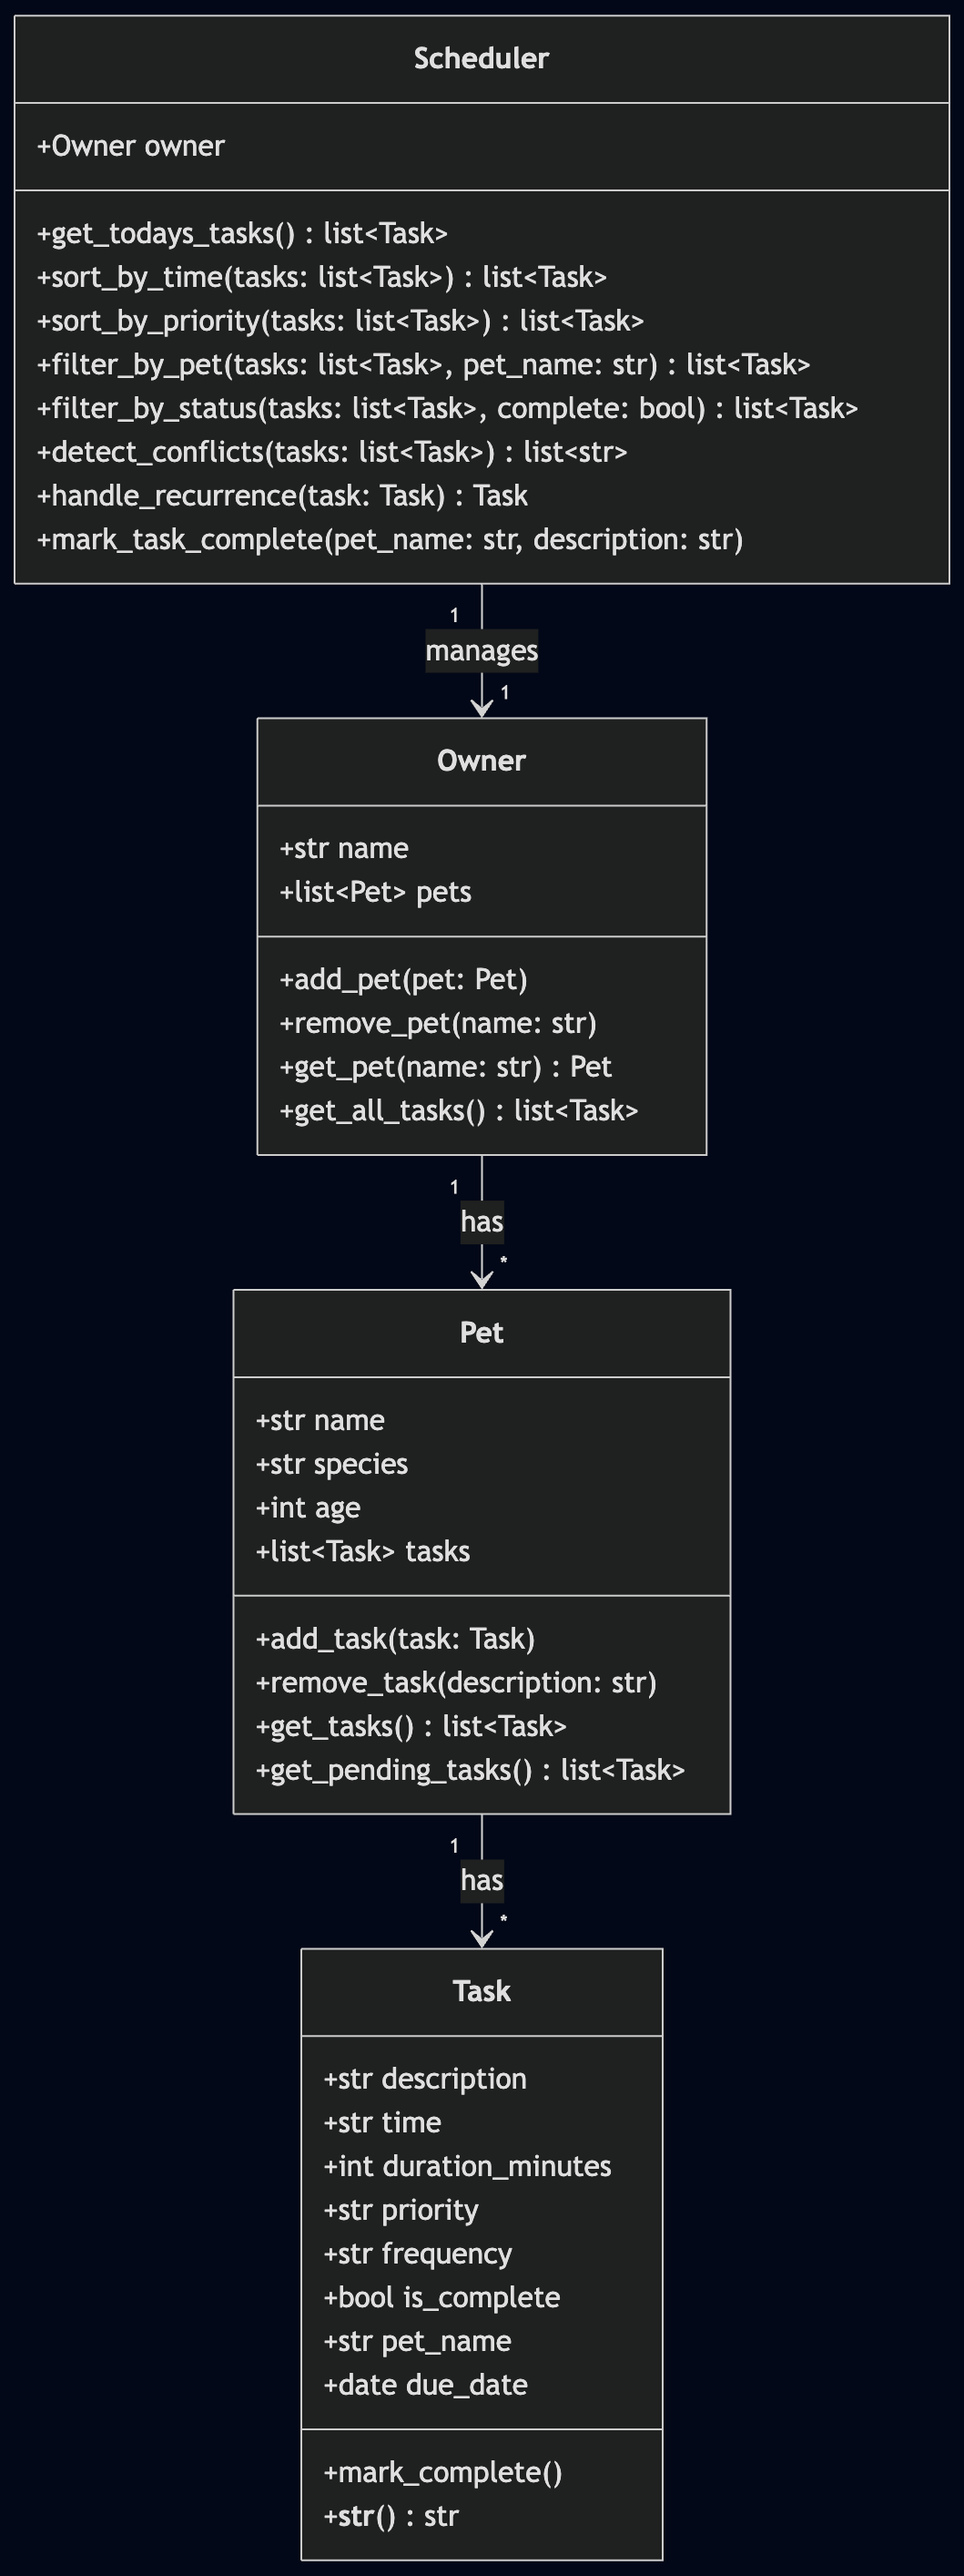
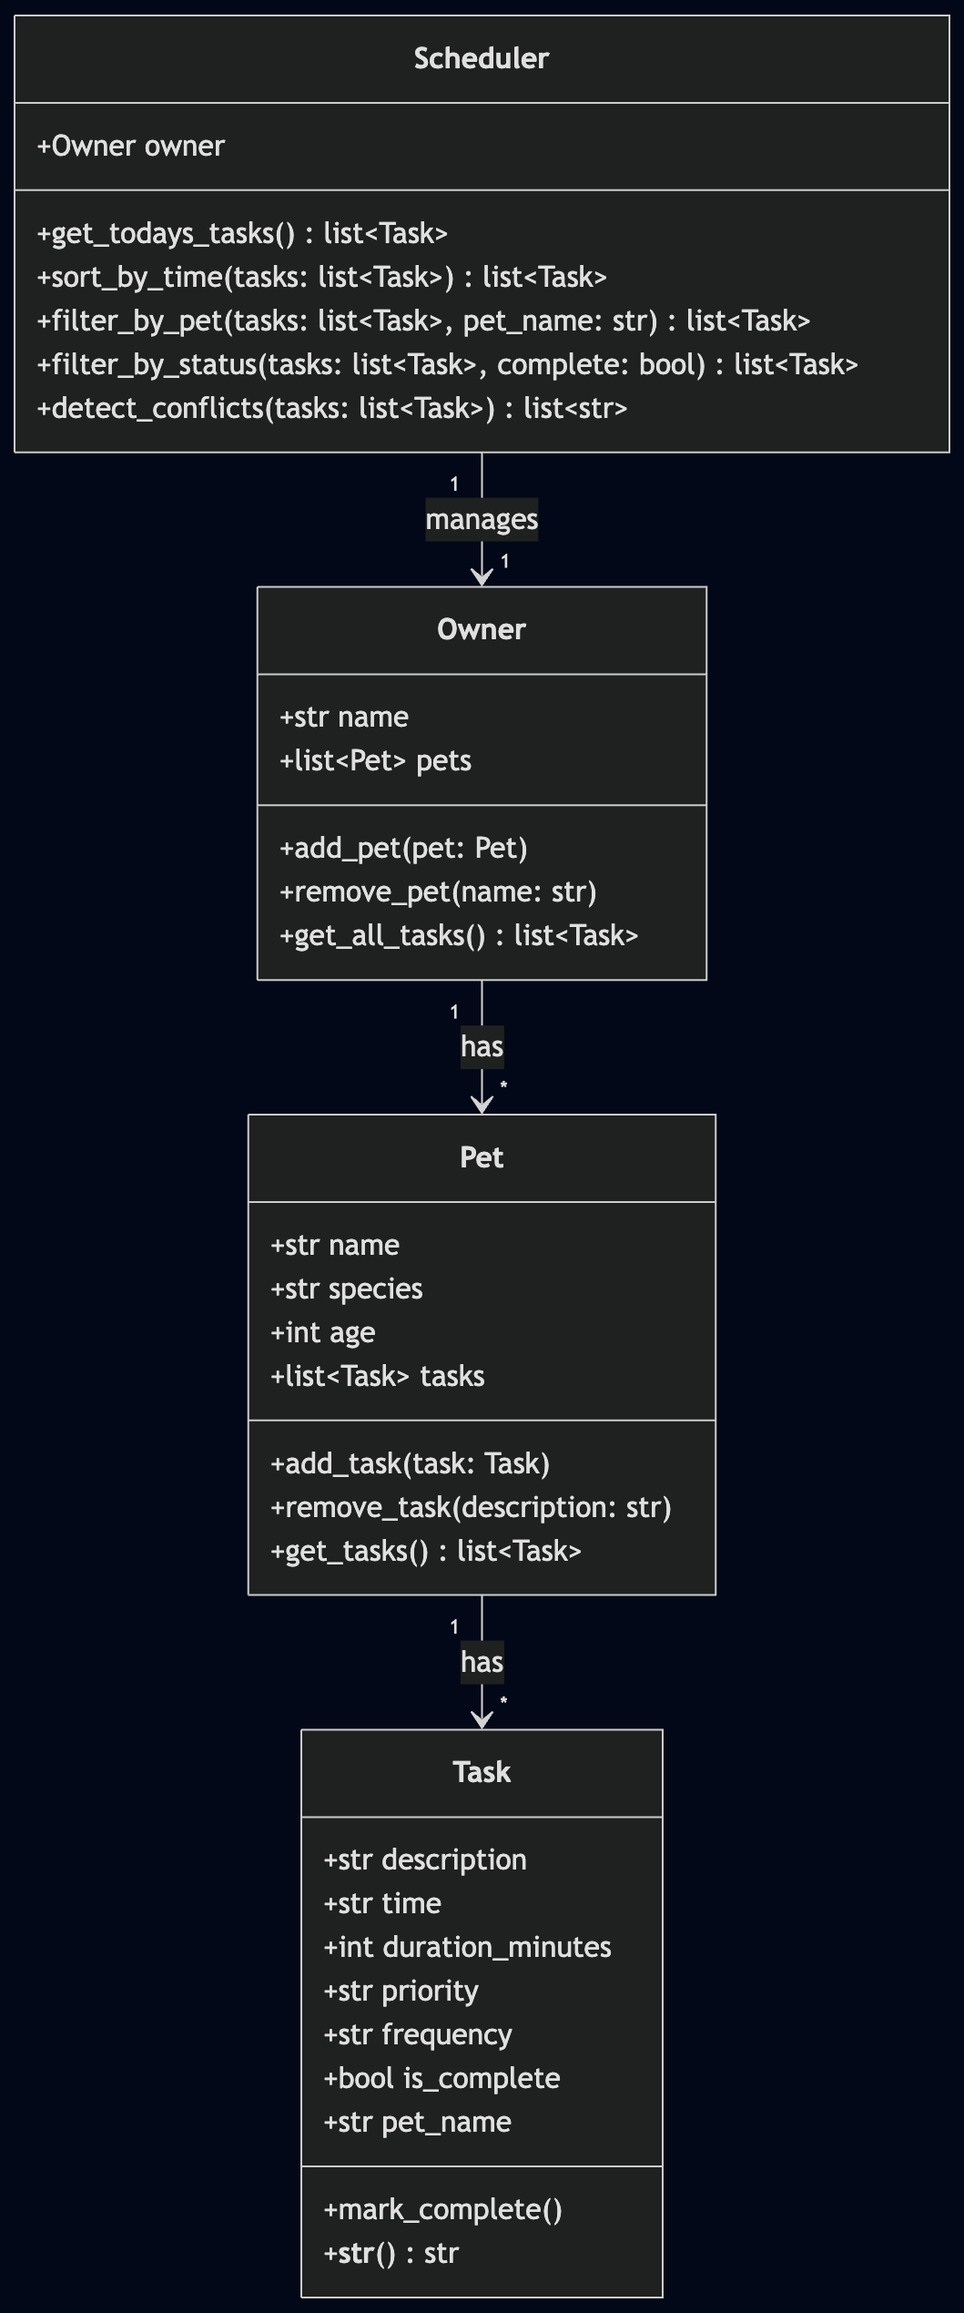
docs: finalize README, reflection, and UML diagram

Changed region(s): [[0.0, 0.0311, 0.9972, 0.9953], [0.4051, 0.0, 0.5609, 0.0311], [0.7167, 0.1244, 0.8414, 0.1555]]

diff --git a/reflection.md b/reflection.md
@@ -41,13 +41,17 @@ This is reasonable for a pet care app because most tasks are short (feeding, med
 
 **a. How you used AI**
 
-- How did you use AI tools during this project (for example: design brainstorming, debugging, refactoring)?
-- What kinds of prompts or questions were most helpful?
+I used AI pretty heavily throughout this project, mainly through VS Code Copilot. In the design phase, I described what the app needed to do and had Copilot generate a Mermaid.js class diagram, which saved a ton of time compared to drawing one from scratch. I used it to scaffold the initial class skeletons too — just gave it the UML and asked for Python dataclass stubs.
+
+During implementation, I used Copilot's inline suggestions and chat to flesh out methods. The most helpful prompts were specific ones like "how should the Scheduler retrieve all tasks from the Owner's pets?" rather than vague stuff like "write my scheduler." Asking it to explain *how* things should connect was way more useful than just asking it to write code.
+
+I also used separate chat sessions for different phases — one for design brainstorming, one for implementation questions, and one focused entirely on testing. That actually helped a lot because the context didn't get muddied up with unrelated stuff from earlier phases.
 
 **b. Judgment and verification**
 
-- Describe one moment where you did not accept an AI suggestion as-is.
-- How did you evaluate or verify what the AI suggested?
+When I asked Copilot to generate the conflict detection logic, it initially suggested checking every pair of tasks using nested loops — comparing all tasks against all other tasks regardless of pet. That would've flagged conflicts between tasks for different pets, which doesn't make sense (I can walk Mochi and feed Whiskers at the same time). I modified it to only flag conflicts when two tasks for the *same pet* are at the same time, using a dictionary keyed on `(pet_name, time)` which is also more efficient than the nested loop approach.
+
+I verified the change by adding specific test cases — one where the same pet has two tasks at the same time (should flag), and one where different pets have tasks at the same time (should not flag). Both passed, which confirmed the logic was right.
 
 ---
 
@@ -55,13 +59,20 @@ This is reasonable for a pet care app because most tasks are short (feeding, med
 
 **a. What you tested**
 
-- What behaviors did you test?
-- Why were these tests important?
+I wrote 20 automated tests covering the main behaviors:
+
+- **Basic operations**: Task completion status toggle, string representation, adding/removing tasks from pets, filtering pending tasks, adding/retrieving pets from an owner, aggregating tasks across pets.
+- **Sorting**: Verified that `sort_by_time()` returns tasks in chronological order and `sort_by_priority()` orders them high → medium → low.
+- **Filtering**: Tested filtering tasks by pet name and by completion status.
+- **Conflict detection**: Confirmed that two tasks at the same time for the same pet get flagged, but two tasks at the same time for different pets don't.
+- **Recurrence**: Verified that completing a daily task creates a new one for tomorrow, a weekly task creates one for next week, and a one-time task doesn't recur.
+- **Edge cases**: Tested a pet with no tasks, an owner with no pets, and a scheduler with an empty owner — all return empty lists without crashing.
+
+These tests are important because the scheduler has a lot of interconnected logic. Without tests, it'd be easy for a change in one method to silently break something else.
 
 **b. Confidence**
 
-- How confident are you that your scheduler works correctly?
-- What edge cases would you test next if you had more time?
+I'd give it a solid 4 out of 5 stars. The core scheduling, sorting, filtering, and recurrence all work correctly based on my tests. The main gap is the conflict detection only catches exact time matches, not overlapping time ranges. If I had more time, I'd test edge cases like tasks at midnight (00:00), tasks with zero duration, and what happens if you try to mark a task complete that doesn't exist.
 
 ---
 
@@ -69,12 +80,12 @@ This is reasonable for a pet care app because most tasks are short (feeding, med
 
 **a. What went well**
 
-- What part of this project are you most satisfied with?
+I'm most satisfied with how clean the architecture turned out. The separation between the logic layer (`pawpal_system.py`) and the UI (`app.py`) made development really smooth — I could test everything in the terminal with `main.py` before touching the Streamlit side. The CLI-first approach the assignment recommended actually works really well in practice.
 
 **b. What you would improve**
 
-- If you had another iteration, what would you improve or redesign?
+If I had another iteration, I'd redesign the conflict detection to check for overlapping time ranges instead of just exact matches. I'd also add data persistence — right now everything resets when you close the app because it's all in memory. Adding JSON save/load would make it actually usable day-to-day. The UI could also use some work — maybe a calendar view instead of just a table.
 
 **c. Key takeaway**
 
-- What is one important thing you learned about designing systems or working with AI on this project?
+The biggest thing I learned is that AI is most useful when you already know what you want to build. The UML-first approach forced me to think through the design before writing any code, and that made the AI suggestions way more useful because I could evaluate them against my design. When I just asked AI to "build a scheduler" without a clear plan, the suggestions were generic and often overcomplicated. But when I said "here's my UML, implement this specific method," the output was solid and I could verify it quickly. Being the architect — knowing the *what* and *why* — is what makes AI collaboration actually productive.

diff --git a/README.md b/README.md
@@ -1,30 +1,41 @@
-# PawPal+ (Module 2 Project)
+# PawPal+ 🐾
 
-You are building **PawPal+**, a Streamlit app that helps a pet owner plan care tasks for their pet.
+A smart pet care management system built with Python and Streamlit. PawPal+ helps pet owners track daily routines — feedings, walks, medications, and appointments — while using algorithmic logic to organize and prioritize tasks.
 
-## Scenario
+## Features
 
-A busy pet owner needs help staying consistent with pet care. They want an assistant that can:
+- **Multi-pet management** — Add and manage multiple pets with their own task lists
+- **Task scheduling** — Create tasks with time, duration, priority, and frequency
+- **Sorting by time** — View your daily schedule in chronological order
+- **Priority sorting** — Sort tasks by urgency (high → medium → low)
+- **Filter by pet** — View tasks for a specific pet
+- **Conflict detection** — Get warnings when two tasks for the same pet overlap
+- **Recurring tasks** — Daily and weekly tasks auto-schedule their next occurrence when completed
+- **Task completion tracking** — Mark tasks done and see your progress
 
-- Track pet care tasks (walks, feeding, meds, enrichment, grooming, etc.)
-- Consider constraints (time available, priority, owner preferences)
-- Produce a daily plan and explain why it chose that plan
+## Smarter Scheduling
 
-Your job is to design the system first (UML), then implement the logic in Python, then connect it to the Streamlit UI.
+PawPal+ goes beyond a simple to-do list with built-in scheduling intelligence:
 
-## What you will build
+- **Time-based sorting** uses Python's `sorted()` with a lambda key on HH:MM strings to display tasks chronologically
+- **Priority ordering** maps priority levels to numeric values (high=0, medium=1, low=2) for clean sorting
+- **Conflict detection** uses a dictionary keyed on `(pet_name, time)` to efficiently flag double-bookings for the same pet
+- **Recurrence handling** uses `datetime.timedelta` to automatically create the next occurrence when a daily or weekly task is completed
 
-Your final app should:
+## Architecture
 
-- Let a user enter basic owner + pet info
-- Let a user add/edit tasks (duration + priority at minimum)
-- Generate a daily schedule/plan based on constraints and priorities
-- Display the plan clearly (and ideally explain the reasoning)
-- Include tests for the most important scheduling behaviors
+The system follows a modular OOP design with four core classes:
 
-## Getting started
+| Class | Role |
+|-------|------|
+| `Task` | Dataclass representing a single activity (time, duration, priority, frequency, status) |
+| `Pet` | Dataclass managing a pet's info and task list |
+| `Owner` | Manages multiple pets and aggregates all tasks |
+| `Scheduler` | The "brain" — sorting, filtering, conflict detection, and recurrence logic |
 
-### Setup
+See `uml_final.png` for the complete class diagram.
+
+## Setup
 
 ```bash
 python -m venv .venv
@@ -32,12 +43,44 @@ source .venv/bin/activate  # Windows: .venv\Scripts\activate
 pip install -r requirements.txt
 ```
 
-### Suggested workflow
+## Usage
 
-1. Read the scenario carefully and identify requirements and edge cases.
-2. Draft a UML diagram (classes, attributes, methods, relationships).
-3. Convert UML into Python class stubs (no logic yet).
-4. Implement scheduling logic in small increments.
-5. Add tests to verify key behaviors.
-6. Connect your logic to the Streamlit UI in `app.py`.
-7. Refine UML so it matches what you actually built.
+**Run the Streamlit app:**
+```bash
+streamlit run app.py
+```
+
+**Run the CLI demo:**
+```bash
+python main.py
+```
+
+## Testing PawPal+
+
+Run the automated test suite:
+
+```bash
+python -m pytest tests/ -v
+```
+
+The test suite includes 20 tests covering:
+- Task completion and string representation
+- Pet task management (add, remove, filter pending)
+- Owner pet management and task aggregation
+- Sorting correctness (time and priority)
+- Filtering by pet name and completion status
+- Conflict detection (same pet same time vs. different pets)
+- Recurrence logic (daily, weekly, one-time)
+- Edge cases (empty pets, empty owner, empty scheduler)
+
+**Confidence Level:** ⭐⭐⭐⭐ (4/5) — Core logic is well-tested. Main gap is duration-based overlap detection.
+
+## 📸 Demo
+
+![PawPal+ App](screenshot.png)
+
+## Tech Stack
+
+- **Backend:** Python 3, dataclasses, datetime
+- **Frontend:** Streamlit
+- **Testing:** pytest

diff --git a/uml_final.md b/uml_final.md
@@ -8,6 +8,7 @@ classDiagram
         +str frequency
         +bool is_complete
         +str pet_name
+        +date due_date
         +mark_complete()
         +__str__() str
     }
@@ -20,6 +21,7 @@ classDiagram
         +add_task(task: Task)
         +remove_task(description: str)
         +get_tasks() list~Task~
+        +get_pending_tasks() list~Task~
     }
 
     class Owner {
@@ -27,6 +29,7 @@ classDiagram
         +list~Pet~ pets
         +add_pet(pet: Pet)
         +remove_pet(name: str)
+        +get_pet(name: str) Pet
         +get_all_tasks() list~Task~
     }
 
@@ -34,9 +37,12 @@ classDiagram
         +Owner owner
         +get_todays_tasks() list~Task~
         +sort_by_time(tasks: list~Task~) list~Task~
+        +sort_by_priority(tasks: list~Task~) list~Task~
         +filter_by_pet(tasks: list~Task~, pet_name: str) list~Task~
         +filter_by_status(tasks: list~Task~, complete: bool) list~Task~
         +detect_conflicts(tasks: list~Task~) list~str~
+        +handle_recurrence(task: Task) Task
+        +mark_task_complete(pet_name: str, description: str)
     }
 
     Owner "1" --> "*" Pet : has
